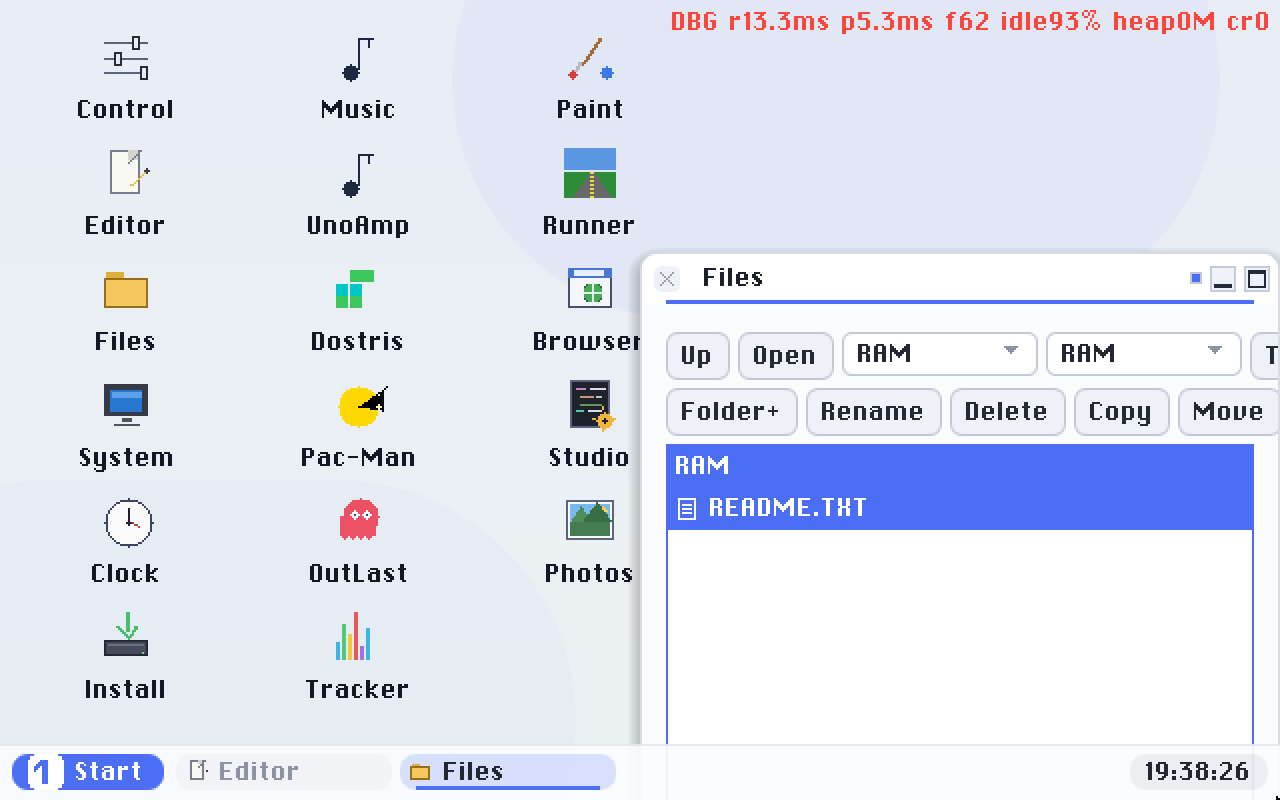
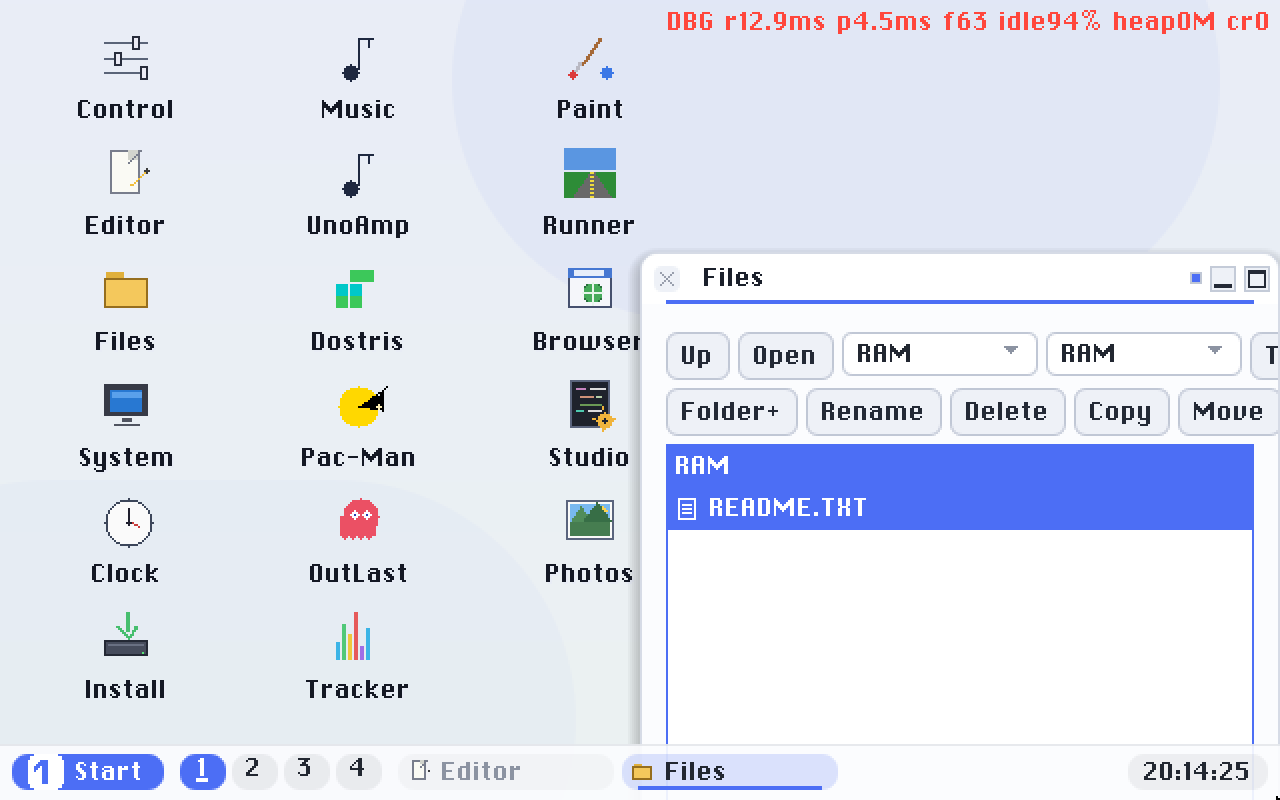
pc64: 'Move to desktop N' on the window menu, and a group moves as one
The last piece phase F owed phase E. wm_desk_move(a, d, follow) is E's
entry point, so this only adds the policy F is responsible for:

* SENDING, not following. A menu item aimed at one window should move
  that window and leave you looking at the desktop you were on, which is
  precisely what E left the third argument for; Alt+Ctrl+Fn keeps the
  follow form. The desktop a window already lives on is marked.
* The set moves together - the fourth thing a link group does after
  move, raise and minimize/restore. A group split across two desktops
  would be a group in name only. Alt+Ctrl+Fn takes the set too, with
  only the last member following, so the switch happens once.

Also folds E's per-desktop chip filter into tb_open_list(), the ONE list
the chip draw, the chip hit-test and the overflow popover all read - so
the bar and its '>>' list cannot disagree about what is on this desktop.

wm_f gains the desktop round trip, and locates the chip strip the way
wm_b now does: the pager's occupancy dot lights up the moment an app
opens, so without taking the pager out of the diff the chip width derived
from it is wrong. The desktop step runs BEFORE the drag, because a switch
hands focus to the incoming desktop's MRU window and every step after it
must aim at a position rather than at 'the focused window'.

diff --git a/pc64/harness.py b/pc64/harness.py
@@ -1546,9 +1546,10 @@ def wm_e():
 # repaints the losing window's title bar - noise that would inflate the bbox and
 # move the top edge every row is counted from. After the first Esc, focus is
 # already on shell chrome, so the second open changes nothing but the popover.
-POP_WIN_ROWS    = 11    # Restore/Min/Max/SnapL/SnapR/-/none/A/B/-/Close
-POP_ROW_NONE    = 6     # "Group: none"
-POP_ROW_A       = 7     # "Group: A"
+POP_WIN_ROWS    = 16    # Restore/Min/Max/SnapL/SnapR /- /desk1-4 /- /none/A/B /- /Close
+POP_ROW_DESK2   = 7     # "To desktop 2"
+POP_ROW_NONE    = 11    # "Group: none"
+POP_ROW_A       = 12    # "Group: A"
 POP_ROW_TILE    = 0     # the taskbar menu: Tile / Cascade / Minimize all
 POP_ROW_CASCADE = 1
 POP_ROW_MINALL  = 2
@@ -1620,6 +1621,26 @@ def wm_f():
         time.sleep(1.5)                        # close the restored Control Panel
         grab(q, "wm_f_00_desktop")
 
+        # Phase E's pager sits between Start and the chips, and its occupancy
+        # dot lights the moment an app opens - so a chip's diff bbox would be
+        # the UNION of dot and chip, and the chip width derived from it wrong.
+        # Locate the pager the way wm_b does (with nothing open anywhere, a
+        # desktop switch can repaint nothing else in the bar) and take
+        # everything left of the chips out of every chip diff below.
+        q.cmd("send-key", keys=[{"type": "qcode", "data": "ctrl"},
+                                {"type": "qcode", "data": "f2"}])
+        time.sleep(1.2)
+        grab(q, "wm_f_00b_desk2")
+        pager = diff_bbox("wm_f_00_desktop", "wm_f_00b_desk2", ignore=chip_only)
+        q.cmd("send-key", keys=[{"type": "qcode", "data": "ctrl"},
+                                {"type": "qcode", "data": "f1"}])
+        time.sleep(1.2)
+        check("found the desktop pager", pager is not None, str(pager))
+        if pager is None:
+            raise SystemExit("wm_f: no pager - the chip strip cannot be located")
+        chip_only.append((0, SCREEN_H - 64,
+                          pager[0] + 4 * ((pager[2] + 3) // 2) + 8 * SCALE, 64))
+
         # ---- two windows in KNOWN halves ------------------------------------
         # Snapped, so every click below is computed from the theme metrics
         # against a corner that is the screen's - never hunted for in a diff,
@@ -1662,6 +1683,41 @@ def wm_f():
         m.park()
         grab(q, "wm_f_03_grouped")
 
+        # ---- the set changes desktops together (phase E's wm_desk_move) -----
+        # "To desktop N" SENDS without following, so desktop 1 must empty and
+        # desktop 2 must hold both. This runs BEFORE the drag deliberately: a
+        # desktop switch hands focus to that desktop's MRU window, so every step
+        # after it has to aim at a POSITION rather than at "the focused window".
+        # Both windows are still snapped to their halves here, so the right-click
+        # below names the Editor by where it is.
+        m.rclick(ed_x * SCALE, tb_y * SCALE)
+        m.click(ed_x * SCALE, pop_row_y(tb_y * SCALE, row_h, POP_ROW_DESK2),
+                settle=1.5)
+        m.park()
+        grab(q, "wm_f_03b_sent_away")
+        check("sending one member to desktop 2 sent the whole set",
+              diff_bbox("wm_f_00_desktop", "wm_f_03b_sent_away",
+                        ignore=band) is None)
+        q.cmd("send-key", keys=[{"type": "qcode", "data": "ctrl"},
+                                {"type": "qcode", "data": "f2"}])
+        time.sleep(1.5)
+        m.park()
+        grab(q, "wm_f_03c_on_desk2")
+        check("...and both of them are on desktop 2",
+              diff_frac("wm_f_00_desktop", "wm_f_03c_on_desk2", left_half) > 0.1 and
+              diff_frac("wm_f_00_desktop", "wm_f_03c_on_desk2", right_half) > 0.1)
+        m.rclick(ed_x * SCALE, tb_y * SCALE)   # ...and back again, same way
+        m.click(ed_x * SCALE, pop_row_y(tb_y * SCALE, row_h, POP_ROW_DESK2 - 1),
+                settle=1.5)
+        q.cmd("send-key", keys=[{"type": "qcode", "data": "ctrl"},
+                                {"type": "qcode", "data": "f1"}])
+        time.sleep(1.5)
+        m.park()
+        grab(q, "wm_f_03d_back_on_desk1")
+        check("sending them back to desktop 1 returned both",
+              diff_frac("wm_f_00_desktop", "wm_f_03d_back_on_desk1", left_half) > 0.1 and
+              diff_frac("wm_f_00_desktop", "wm_f_03d_back_on_desk1", right_half) > 0.1)
+
         # ---- drag ONE: the whole set moves ---------------------------------
         drop = 140
         m.to(ed_x * SCALE, tb_y * SCALE)
@@ -1674,10 +1730,10 @@ def wm_f():
         m.btn(False)
         m.park()
         grab(q, "wm_f_05_group_dragged")
-        mid = diff_frac("wm_f_03_grouped", "wm_f_04_mid_drag", right_half)
+        mid = diff_frac("wm_f_03d_back_on_desk1", "wm_f_04_mid_drag", right_half)
         check("mid-drag, the linked window has moved too", mid > 0.05, "%.3f" % mid)
-        both_r = diff_frac("wm_f_03_grouped", "wm_f_05_group_dragged", right_half)
-        both_l = diff_frac("wm_f_03_grouped", "wm_f_05_group_dragged", left_half)
+        both_r = diff_frac("wm_f_03d_back_on_desk1", "wm_f_05_group_dragged", right_half)
+        both_l = diff_frac("wm_f_03d_back_on_desk1", "wm_f_05_group_dragged", left_half)
         check("the drop left BOTH windows moved",
               both_r > 0.05 and both_l > 0.05,
               "left %.3f right %.3f" % (both_l, both_r))

diff --git a/pc64/pc64_uui.c b/pc64/pc64_uui.c
@@ -2745,6 +2745,18 @@ static void wm_minimize_all(void)
     g_dirty = 1;
 }
 
+/* Send `a`'s whole link group to desktop `d`. The fourth thing a set does
+ * together (after move, raise and minimize/restore): a group split across two
+ * desktops would be a group in name only. Nothing follows it - see the menu
+ * builder - so wm_desk_move's `follow` is 0 for every member. */
+static void wm_group_desk_move(int a, int d, int follow)
+{
+    int set[NAPPS], n, i;
+    n = wm_group_set(a, set);
+    for (i = 0; i < n; i++) wm_desk_move(set[i], d, i == n - 1 ? follow : 0);
+    rebuild_taskbar();
+}
+
 /* join / leave a link group (0 = leave). Group membership is session state
  * like geometry, so it is saved the same way. */
 static void wm_group_join(int a, int gid)
@@ -2806,6 +2818,7 @@ static void pop_activate(int row)
     case POP_SNAPL:    wm_snap(a, WM_SNAP_L); break;
     case POP_SNAPR:    wm_snap(a, WM_SNAP_R); break;
     case POP_GROUP:    wm_group_join(a, arg); break;
+    case POP_DESK:     wm_group_desk_move(a, arg, 0); break;
     case POP_CLOSE:    close_app(a); break;
     case POP_ACTIVATE: if (g_parked[arg]) restore_app(arg); else open_app(arg); break;
     case POP_TILE:     wm_tile(); break;
@@ -2881,6 +2894,16 @@ static void pop_window_menu(int a, int x, int y)
     pop_add("Maximize",   POP_MAX,   0, -1);
     pop_add("Snap left",  POP_SNAPL, 0, -1);
     pop_add("Snap right", POP_SNAPR, 0, -1);
+    pop_add(0, POP_SEP, 0, -1);
+    /* phase E's desktops. SENDING, not following: a menu item aimed at one
+     * window should move that window, and leave you looking at the desktop you
+     * were on - which is also what wm_desk_move's `follow` argument exists to
+     * let this decide (Alt+Ctrl+Fn is the follow form). The desktop the window
+     * already lives on is marked, and moving to it is a harmless no-op. */
+    pop_add(g_desk_of[a] == 0 ? "To desktop 1 *" : "To desktop 1", POP_DESK, 0, -1);
+    pop_add(g_desk_of[a] == 1 ? "To desktop 2 *" : "To desktop 2", POP_DESK, 1, -1);
+    pop_add(g_desk_of[a] == 2 ? "To desktop 3 *" : "To desktop 3", POP_DESK, 2, -1);
+    pop_add(g_desk_of[a] == 3 ? "To desktop 4 *" : "To desktop 4", POP_DESK, 3, -1);
     pop_add(0, POP_SEP, 0, -1);
     pop_add(g_group[a] == 0 ? "Group: none *" : "Group: none", POP_GROUP, 0, -1);
     pop_add(g_group[a] == 1 ? "Group: A *"    : "Group: A",    POP_GROUP, 1, -1);
@@ -3979,7 +4002,8 @@ static int pump_input(void)
             !(scan == 0x0E && !(mods & UI_MOD_ALT) && g_open[EX_BROWSER] &&
               UI.focus_win >= 0 && UI.focus_win < UI.nwin &&
               UI.win[UI.focus_win] == &g_win[EX_BROWSER])) {
-            if (mods & UI_MOD_ALT) wm_desk_move(wm_target_app(), scan - 0x0B, 1);
+            if (mods & UI_MOD_ALT)                       /* the set goes too */
+                wm_group_desk_move(wm_target_app(), scan - 0x0B, 1);
             else                   wm_desk_switch(scan - 0x0B);
             continue;
         }
